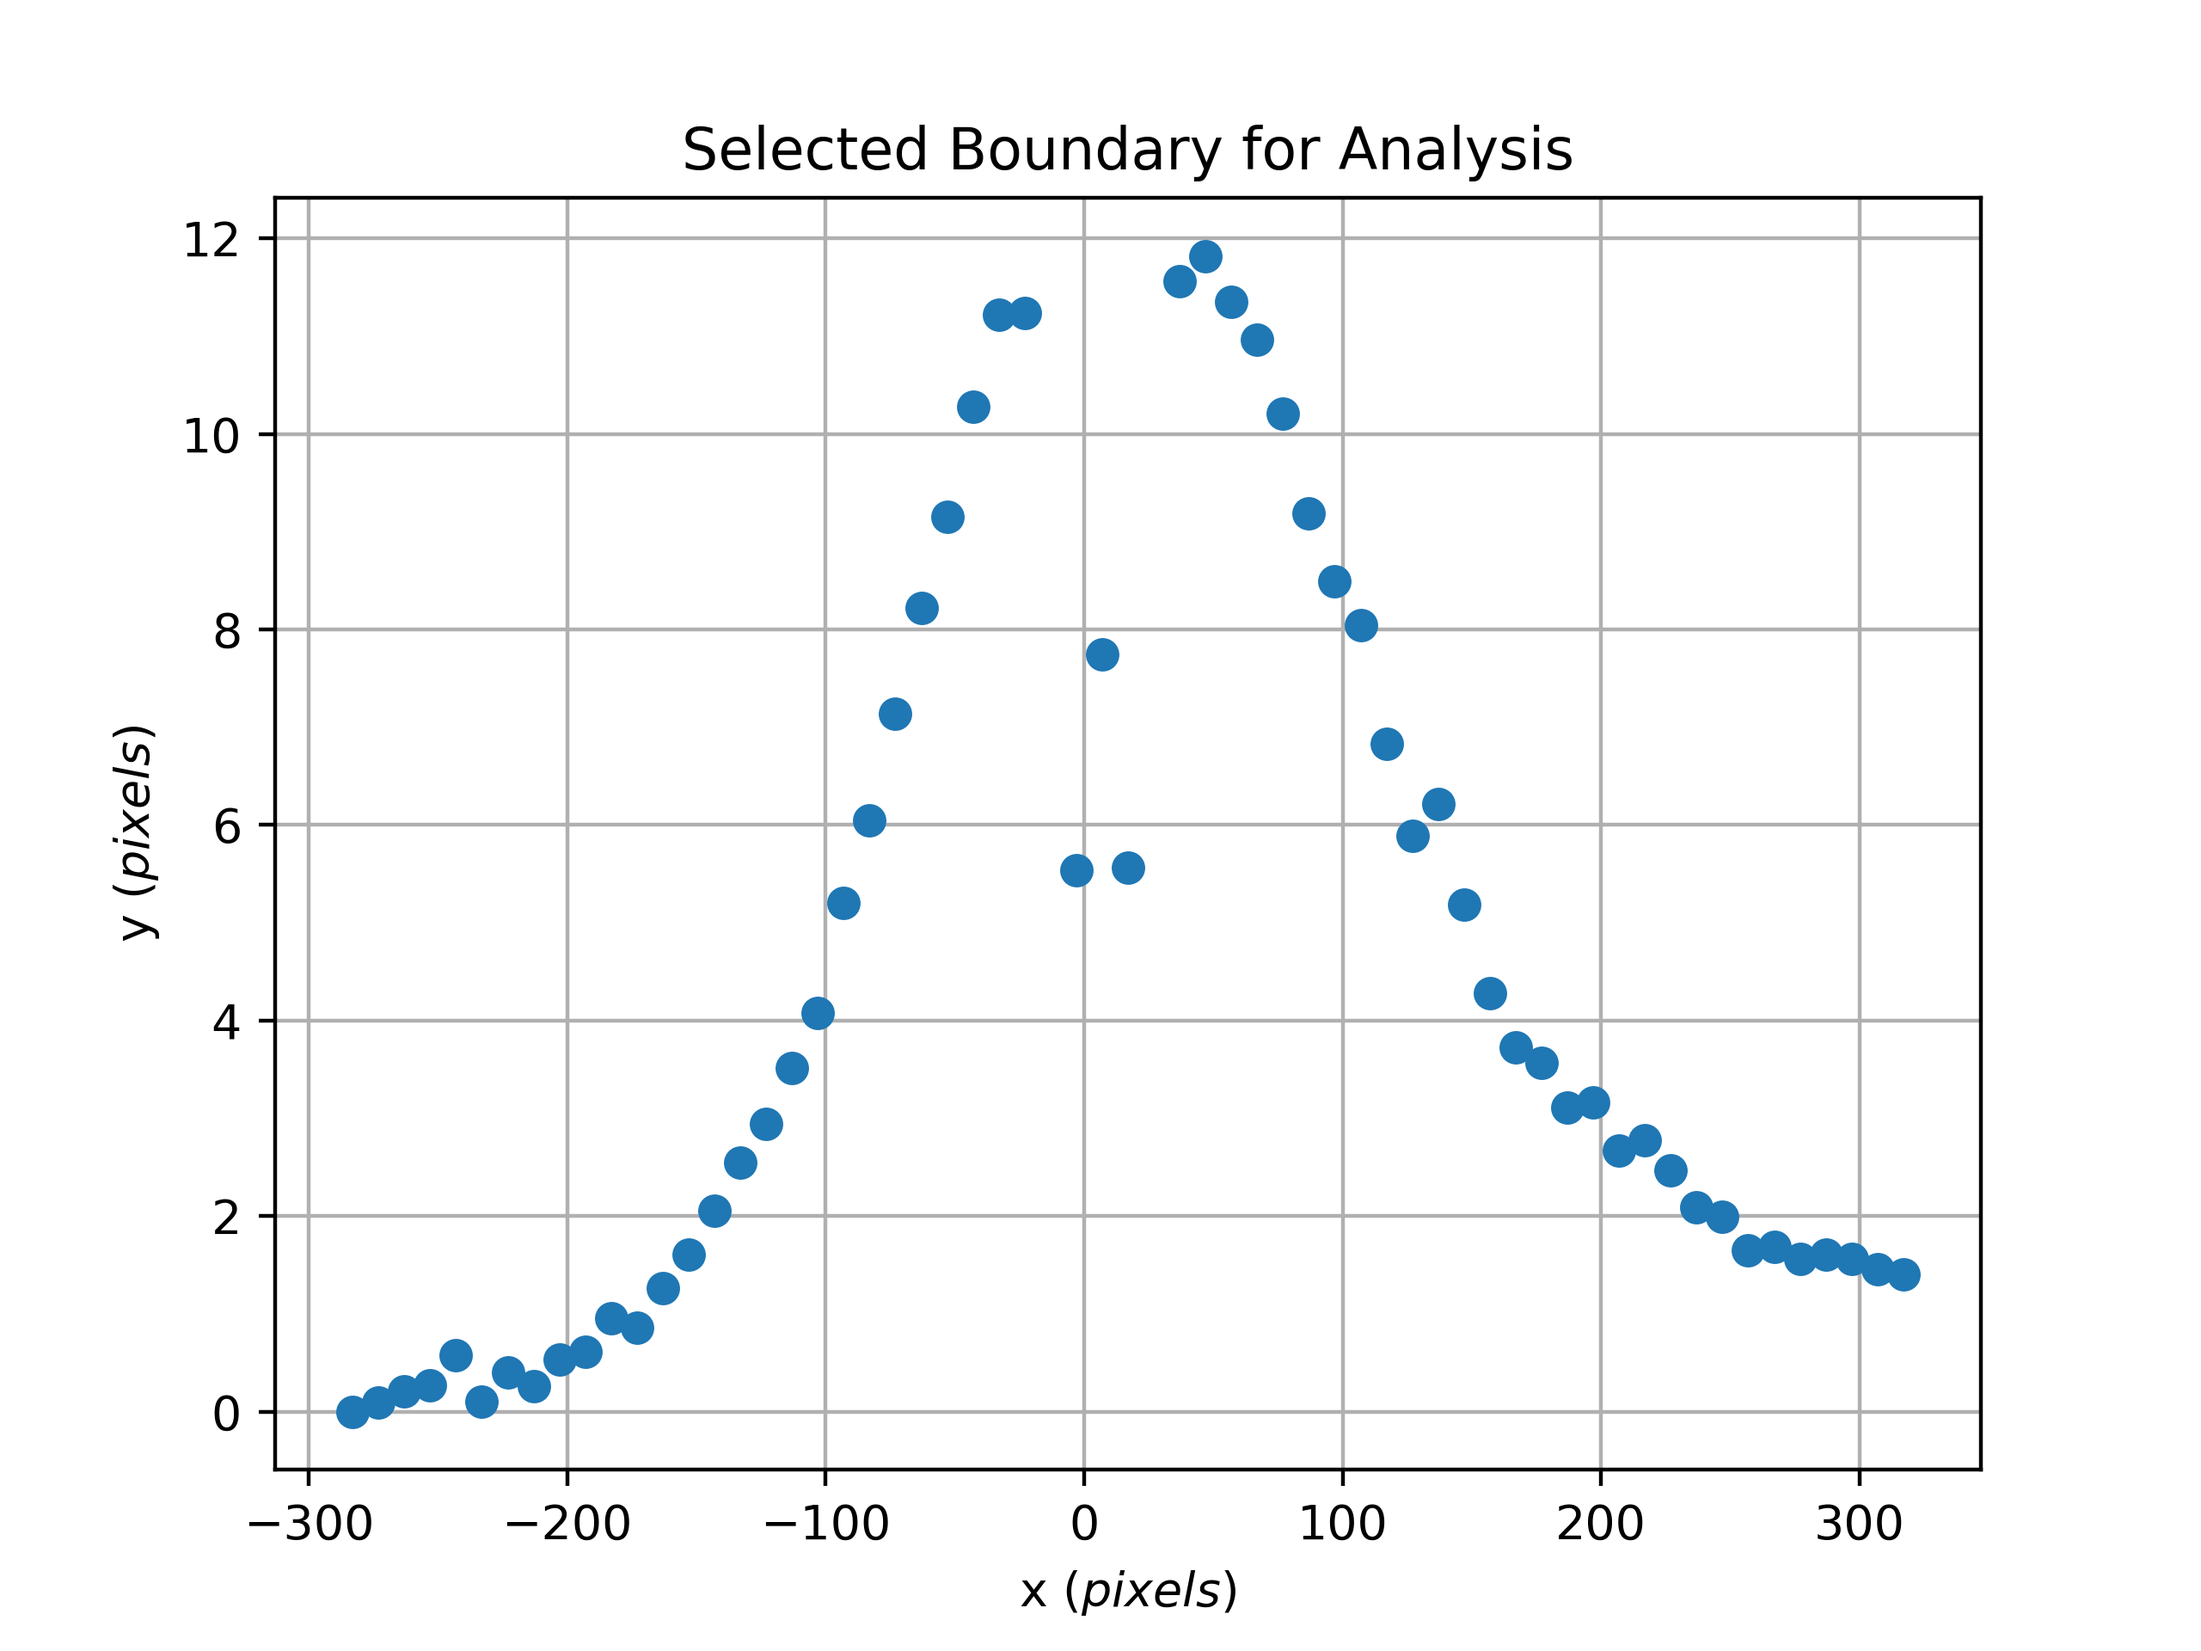
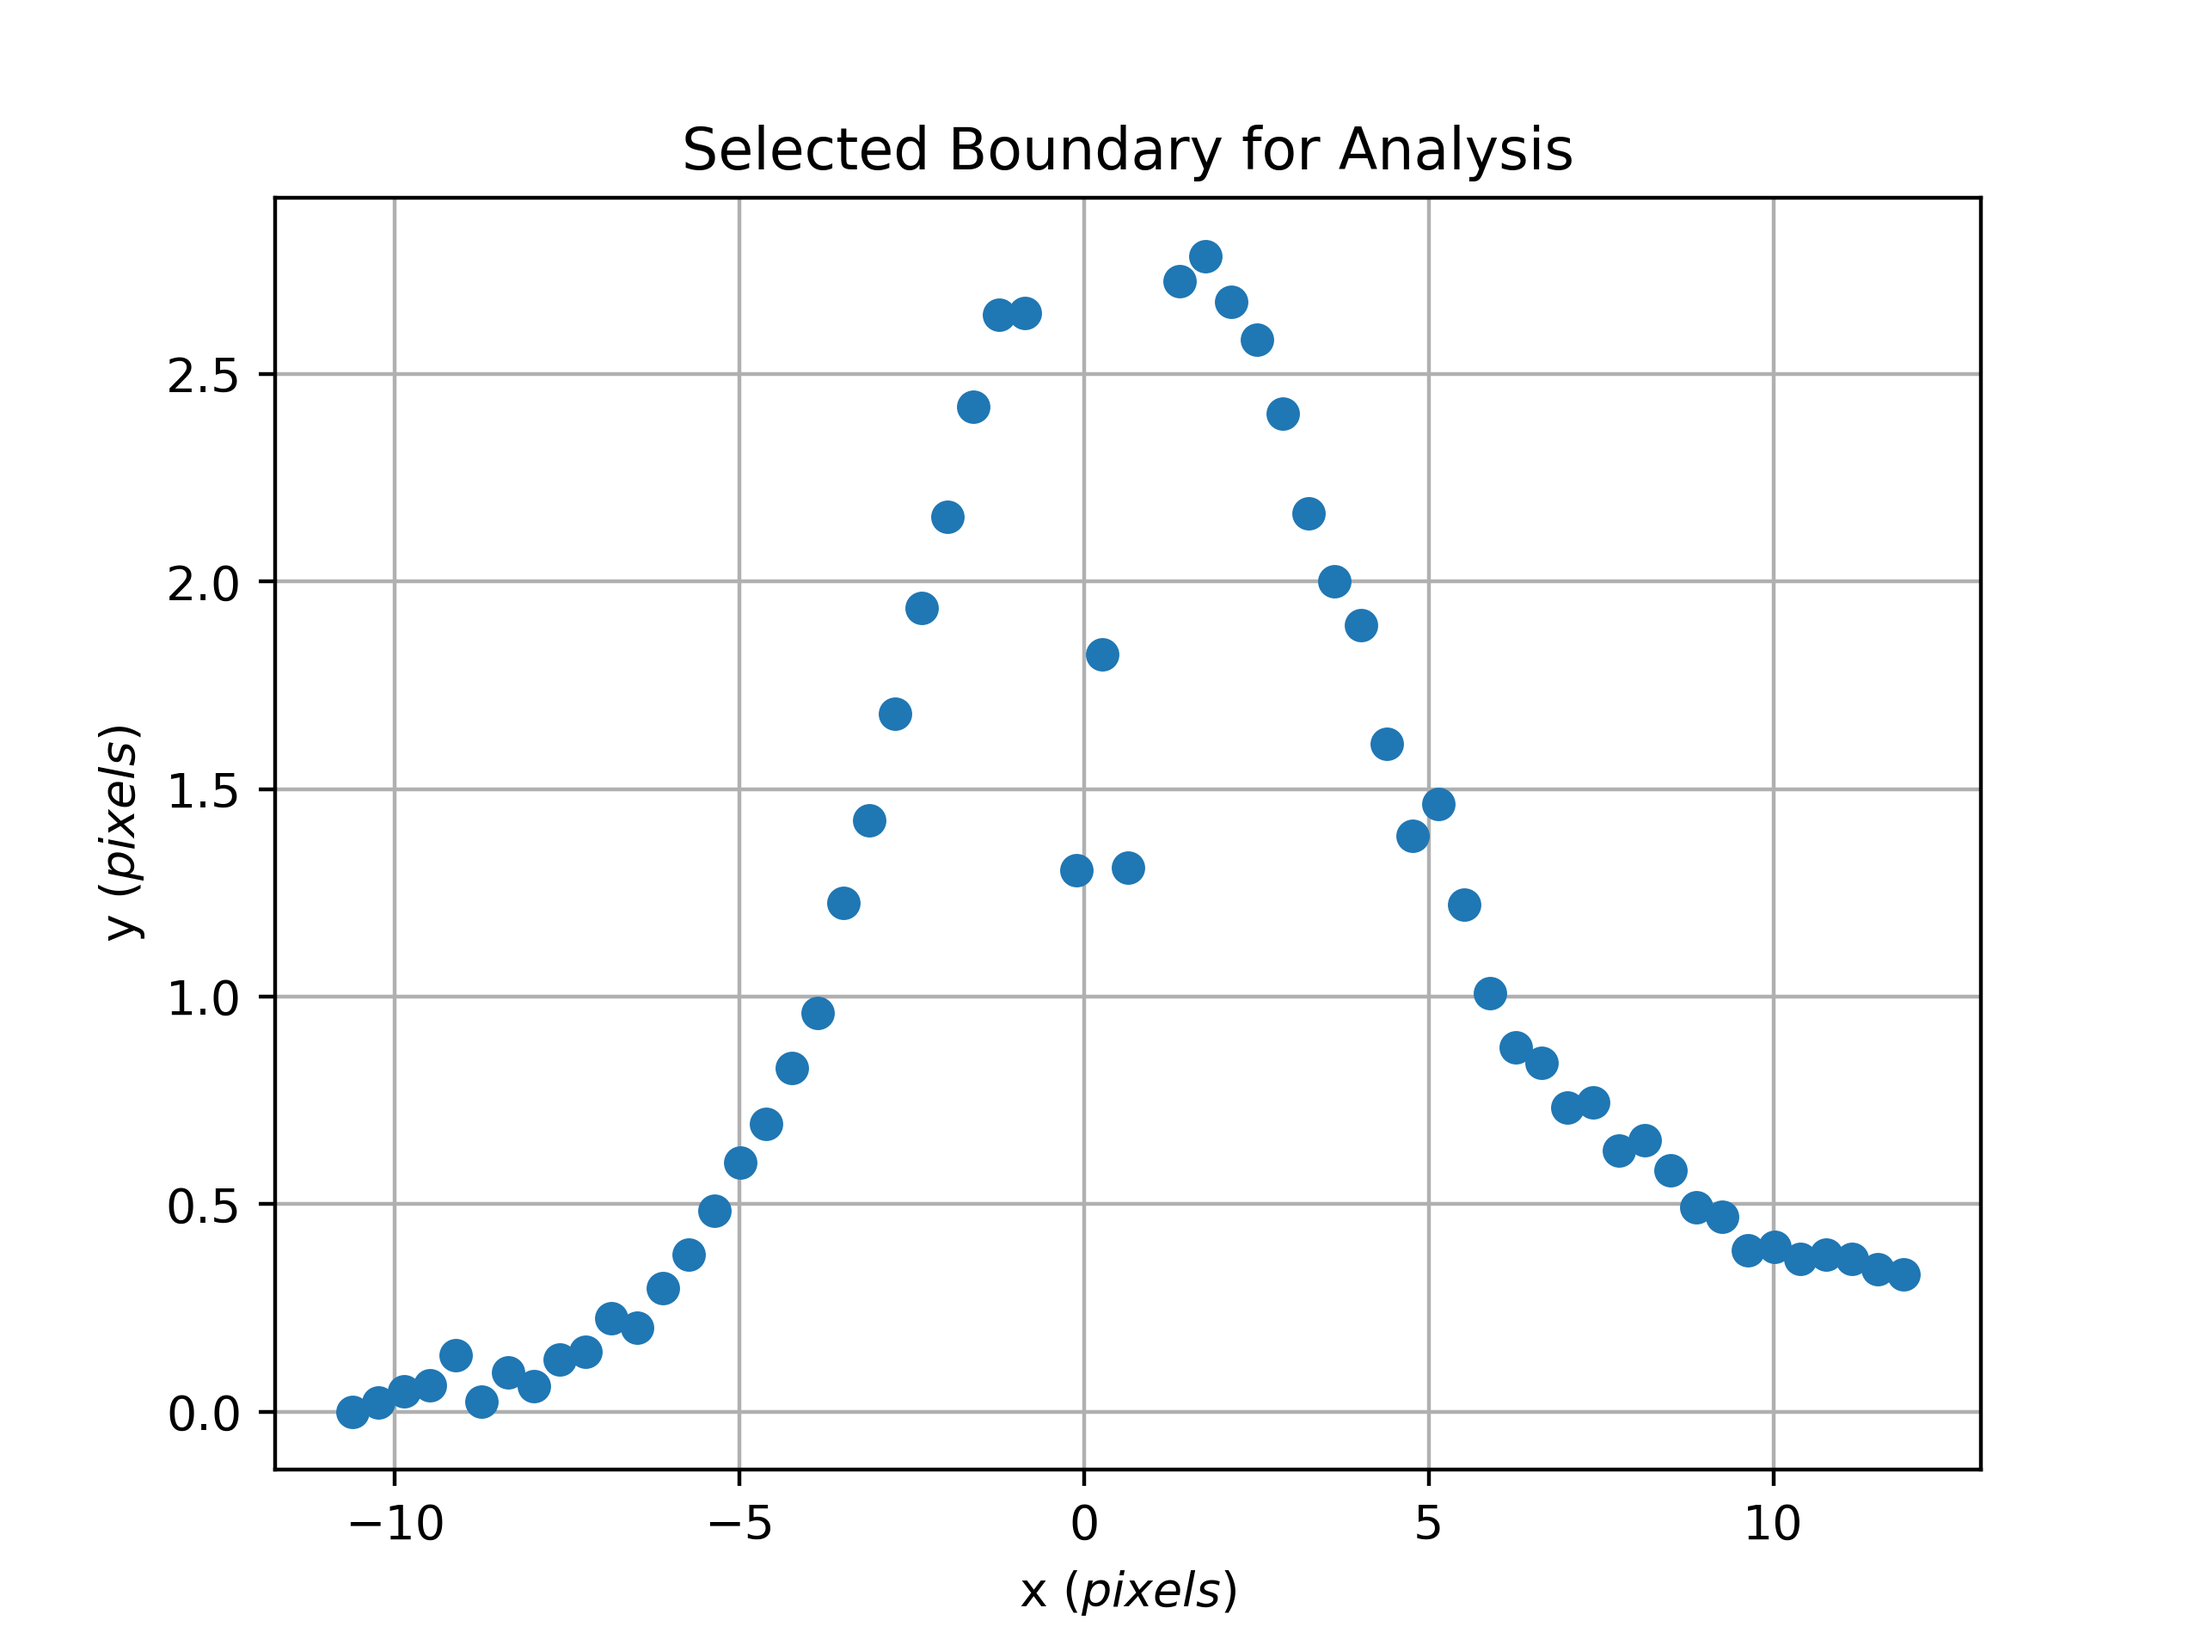
Final Temperature

diff --git a/source/temperature.py b/source/temperature.py
@@ -33,6 +33,7 @@ GRAPH_PATH.mkdir(exist_ok=True,
 GRAPH_TEMPERATURE_PATH = Path('../graphs/temperature')
 GRAPH_TEMPERATURE_PATH.mkdir(exist_ok=True,
                     parents=True)
+CALIBRATION_PATH = Path('../graphs/calibration.txt')
 
 
 TEMPERATURE_1 = np.array(Image.open(DATA_PATH/'ferro150.pgm'))
@@ -67,6 +68,10 @@ curve_points_3 = [(60, 280), (187, 283), (325, 302), (423, 305), (520, 317), (63
 
 # ------------------------ Temperatura ------------------------ #
 def temperature_plot(image, line_points, adjusted_x=0, box_y=None, box_x=None, Rad=None, title=None):
+    # Extract Parameters from calibration image
+    with open(CALIBRATION_PATH, 'r') as f:
+        m_pixel = float(f.readline().split(' ')[1])
+        b_pixel = float(f.readline().split(' ')[1])
     
     # Visualize image
     plt.imshow(image, cmap='gray')
@@ -213,8 +218,10 @@ def temperature_plot(image, line_points, adjusted_x=0, box_y=None, box_x=None, R
     y_points = np.delete(y_points, np.where(condition))
 
 
-    # Divide by two * pi to get it in radians
-    y_points = y_points / 2 / np.pi
+    # Multiply by two * pi to get it in radians
+    y_points = y_points * 3 / 80 
+    x_points = x_points * 3 / 80
+    # y_points = y_points * 2 * np.pi
 
     # Plot the rotated points in a new figure
     plt.plot(x_points, y_points, 'o')
@@ -229,40 +236,103 @@ def temperature_plot(image, line_points, adjusted_x=0, box_y=None, box_x=None, R
     x_points = x_points[np.logical_not(np.isnan(y_points))]
     y_points = y_points[np.logical_not(np.isnan(y_points))]
 
+    
     # Fit a 6th order degree polynomial
     model = np.polyfit(x_points, y_points, 6)
 
+    # Fit a exponential model
+    def expo(x, a, b, c):
+        return a * np.exp(-b * x) + c
+    
+    def gaussian_func(x, a, b, c):
+        return a * np.exp(-((x - b) ** 2) / (2 * c ** 2))
+
+    def triangle(x, amplitude, base, peak):
+        return np.piecewise(x, [x < base, (x >= base) & (x < peak), x >= peak],
+                            [0, lambda x: (amplitude / (peak - base)) * (x - base), 0])
+
+    x_exp = []
+    y_exp = []
+    for i in range(len(x_points)):
+        if x_points[i] > 0:
+            x_exp.append(x_points[i])
+            y_exp.append(y_points[i])
+    x_exp = np.asarray(x_exp)
+    y_exp = np.asarray(y_exp)
+
+    
+    popt, pcov = curve_fit(expo, x_exp, y_exp, p0=(1, 1e-6, 1))
+    print(popt)
+
+    popt_gaussian, pcov_gaussian = curve_fit(gaussian_func, x_points, y_points, p0=(1, 1e-6, 200))
 
     # Plot the polynomial
     plt.plot(x_points, y_points, 'o', label='Experimental Points')
     x_grid = np.linspace(min(x_points), max(x_points), 100)
+    x_exp_grid = np.linspace(min(x_exp), max(x_exp), 100)
     plt.plot(x_grid, np.polyval(model, x_grid), label='Fitted 6th Degree Polynomial')
-    plt.xlabel('x')
-    plt.ylabel('y')
+    plt.plot(x_exp_grid, expo(x_exp_grid, *popt), label='Fitted Exponential')
+    plt.plot(x_grid, gaussian_func(x_grid, *popt_gaussian), label='Fitted Gaussian')
+    plt.xlabel('x (mm)')
+    plt.ylabel('y (mm)')
     plt.title('6th Degree Polynomial')
     plt.legend()
     plt.grid()
     plt.savefig(GRAPH_TEMPERATURE_PATH/f"points_vs_polynomial_{title}.png", dpi=400)
     plt.show()
     g, f, e, d, c, b, a = model
+    
+
+    print(f"y_max: {gaussian_func(0, *popt_gaussian)}")
+    lambda_laser = 633e-9
+    alpha = popt_gaussian[2] 
+    nr_gaussian = gaussian_func(0, *popt_gaussian)
+    nr_expontential = expo(min(x_exp), *popt)
 
 
-    r = Rad - Rad / 1000 
+
+    r = 0
+    Rad = Rad * 3 / 80
+    r *= 3 / 80
     u = np.sqrt(Rad ** 2 - r ** 2)
     nr = - 1 / np.pi * (2 * c * u + 4 * e * (u * r**2 + u**3 / 3) + 6 * g * (u*r**4 + 2*u**3 /3 * r**2 + u**5/5)) + 1
     print(f"nr: {nr}")
-    # Indice de refração do ar para temp=0ºC
-    n2 = 1.00029115
-    T2 = 273.15 # temp em k
+    def temp(nr):
+        # Indice de refração do ar para temp=0ºC
+        n2 = 1.00029115
+        T2 = 273.15
+        T1 = (n2 - 1) * T2 / (nr - 1)
+        return T1 - 273.15
 
-    T1 = (n2 - 1) * T2 / (nr - 1)
-    print(f"Temp: {T1 - 273.15}")
+    print(f"temp: {nr}")
+    print(f"temp gauss: {nr_gaussian}")
+    print(f"temp exp: {nr_expontential}")
 
 
 
 
 
 if __name__ == '__main__':
+    plt.figure(figsize=(8, 6))
+    plt.plot([1.57644, 2.338745, 3.095798][0], [1.0001879419177597, 1.0001387553389165, 1.0001181424979573][0], 'o', label='Gaussian (150ºC)', c='red')
+    plt.plot([1.6935631504223372, 2.5596870399554446, 3.2385507585841267][0], [1.0001879419177597, 1.0001387553389165, 1.0001181424979573][0], 'o', label='Exponential (150ºC)', c='green')
+    plt.plot([1.57644, 2.338745, 3.095798][1], [1.0001879419177597, 1.0001387553389165, 1.0001181424979573][1], 'o', label='Gaussian (300ºC)', c='blue')
+    plt.plot([1.6935631504223372, 2.5596870399554446, 3.2385507585841267][1], [1.0001879419177597, 1.0001387553389165, 1.0001181424979573][1], 'o', label='Exponential (300ºC)', c='orange')
+    plt.plot([1.57644, 2.338745, 3.095798][2], [1.0001879419177597, 1.0001387553389165, 1.0001181424979573][2], 'o', label='Gaussian (450ºC)', c='purple')
+    plt.plot([1.6935631504223372, 2.5596870399554446, 3.2385507585841267][2], [1.0001879419177597, 1.0001387553389165, 1.0001181424979573][2], 'o-', label='Exponential (450ºC)', c='black')
+    # Linear Fit for Gaussian
+    a, b = np.polyfit([1.57644, 2.338745, 3.095798], [1.0001879419177597, 1.0001387553389165, 1.0001181424979573], 1)
+    plt.plot([1.57644, 2.338745, 3.095798], a*np.array([1.57644, 2.338745, 3.095798]) + b, label='Linear Fit Gaussian')
+    # Linear Fit for Exponential
+    a, b = np.polyfit([1.6935631504223372, 2.5596870399554446, 3.2385507585841267], [1.0001879419177597, 1.0001387553389165, 1.0001181424979573], 1)
+    plt.plot([1.6935631504223372, 2.5596870399554446, 3.2385507585841267], a*np.array([1.6935631504223372, 2.5596870399554446, 3.2385507585841267]) + b, label='Linear Fit Exponential')
+    plt.xlabel(r'Displacement ($mm$)')
+    plt.ylabel(r'Index of Refraction')
+    plt.title('Index of Refraction vs Displacement')
+    plt.legend()
+    plt.grid()
+    plt.savefig(GRAPH_TEMPERATURE_PATH/f"index_of_refraction_vs_displacement.png", dpi=400)
+    plt.show()
     temperature_plot(TEMPERATURE_1, line, adjusted_x=-10, box_y=(-75, 46), box_x=(2754, 3750), Rad=150, title='ferro150')
     temperature_plot(TEMPERATURE_2, line_2, adjusted_x=47, box_y=(-45, 65), box_x=(2900, 3506), Rad=248, title='ferro300')
     temperature_plot(TEMPERATURE_3, line_3, adjusted_x=-80, box_y=(-52, 67), box_x=(2800, 3289), Rad=350, title='ferro450')

diff --git a/interferometria/ferro_de_soldar/ferro.py b/interferometria/ferro_de_soldar/ferro.py
@@ -1,14 +1,28 @@
+import numpy as np
+import pandas as pd
+import matplotlib.pyplot as plt
 
+points = []
+for i in (150, 300, 400):
+    # Indice de refração do ar para temp=0ºC
+    n2 = 1.00029115
+    T2 = 273.15 # temp em k
 
-# Indice de refração do ar para temp=0ºC
-n2 = 1.00029115
-T2 = 273.15 # temp em k
+    T1 = i + 273.15 # temp em k
 
-T1 = 450 + 273.15 # temp em k
-
-# Formula para obter o n do ar para uma dada temp
-n1 = ((n2 - 1) * T2 + T1) / T1 
+    # Formula para obter o n do ar para uma dada temp
+    n1 = ((n2 - 1) * T2 + T1) / T1 
+    points.append(n1)
 
 print('n1 = ', n1)
+print(points)
+plt.figure(figsize=(10, 10))
+plt.plot([1.57644, 2.338745, 3.095798], points, 'o-')
+# Fit a line, y = ax + b
+a, b = np.polyfit([1.57644, 2.338745, 3.095798], points, 1)
+print(1/a)
+print(b)
+plt.plot([1.57644, 2.338745, 3.095798], a*np.array([1.57644, 2.338745, 3.095798]) + b)
+plt.show()
 
 
